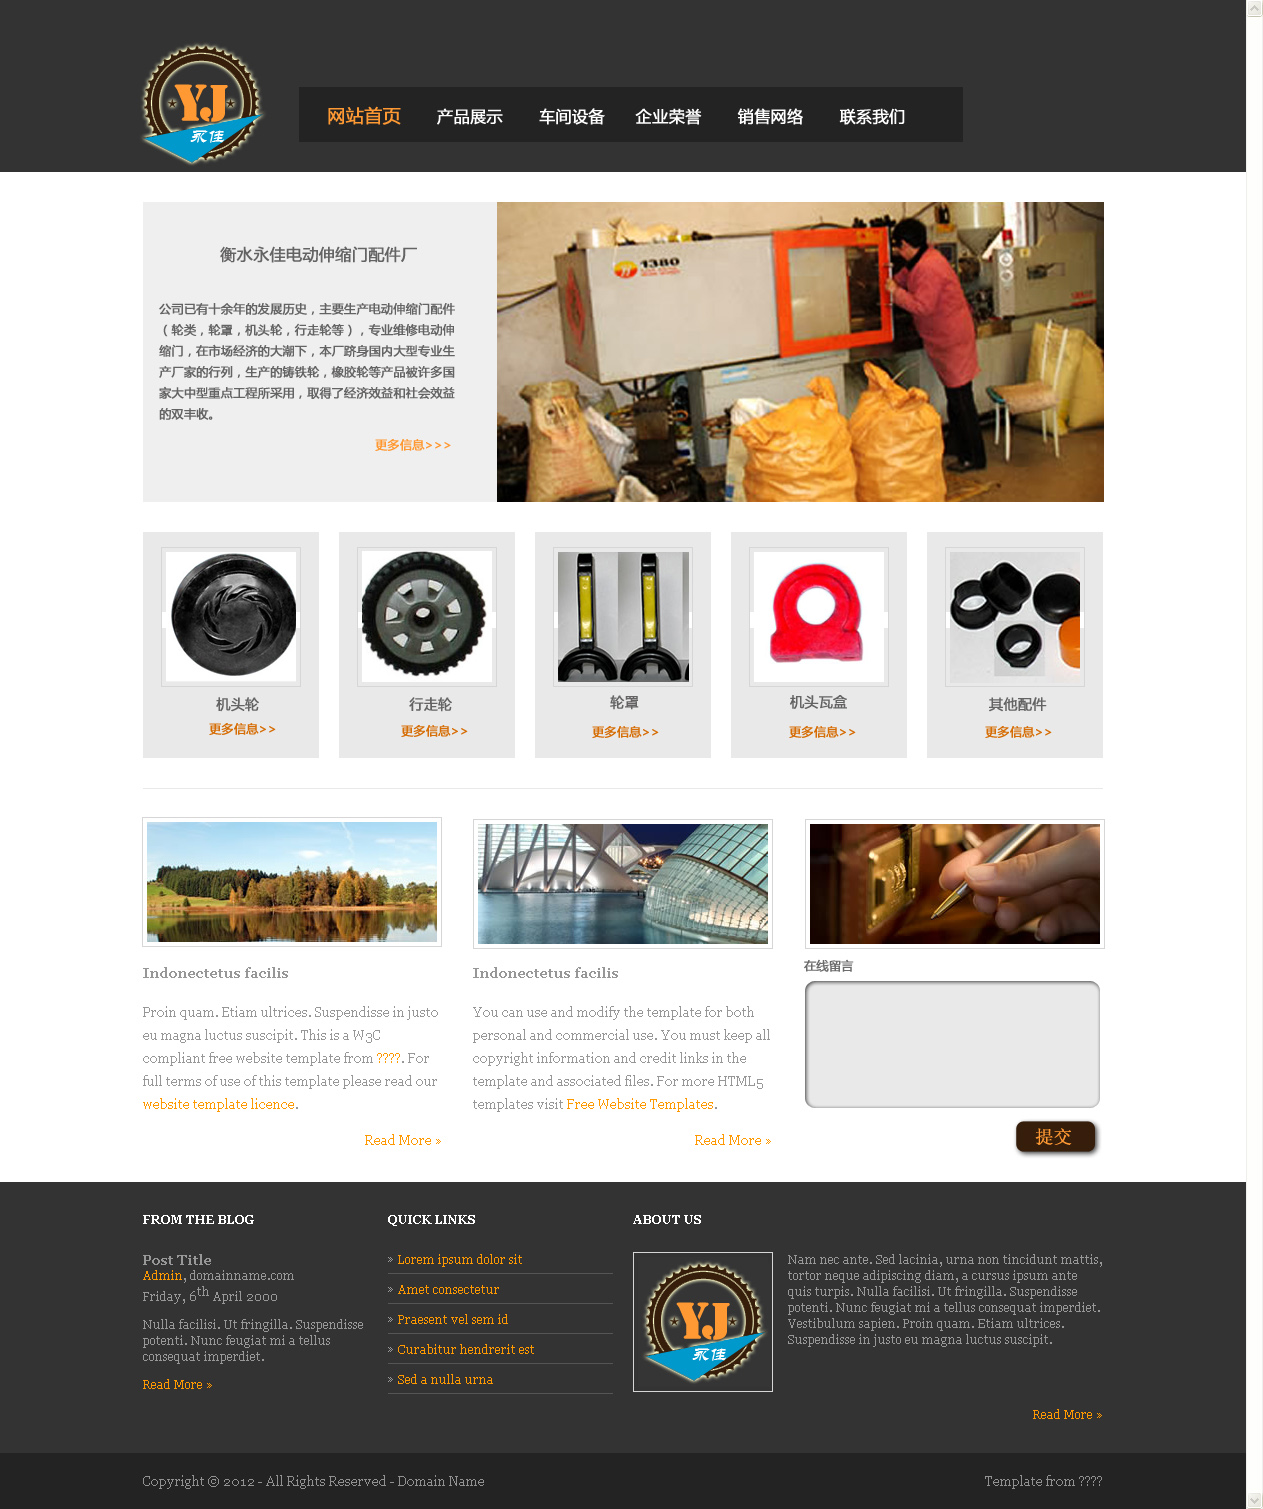
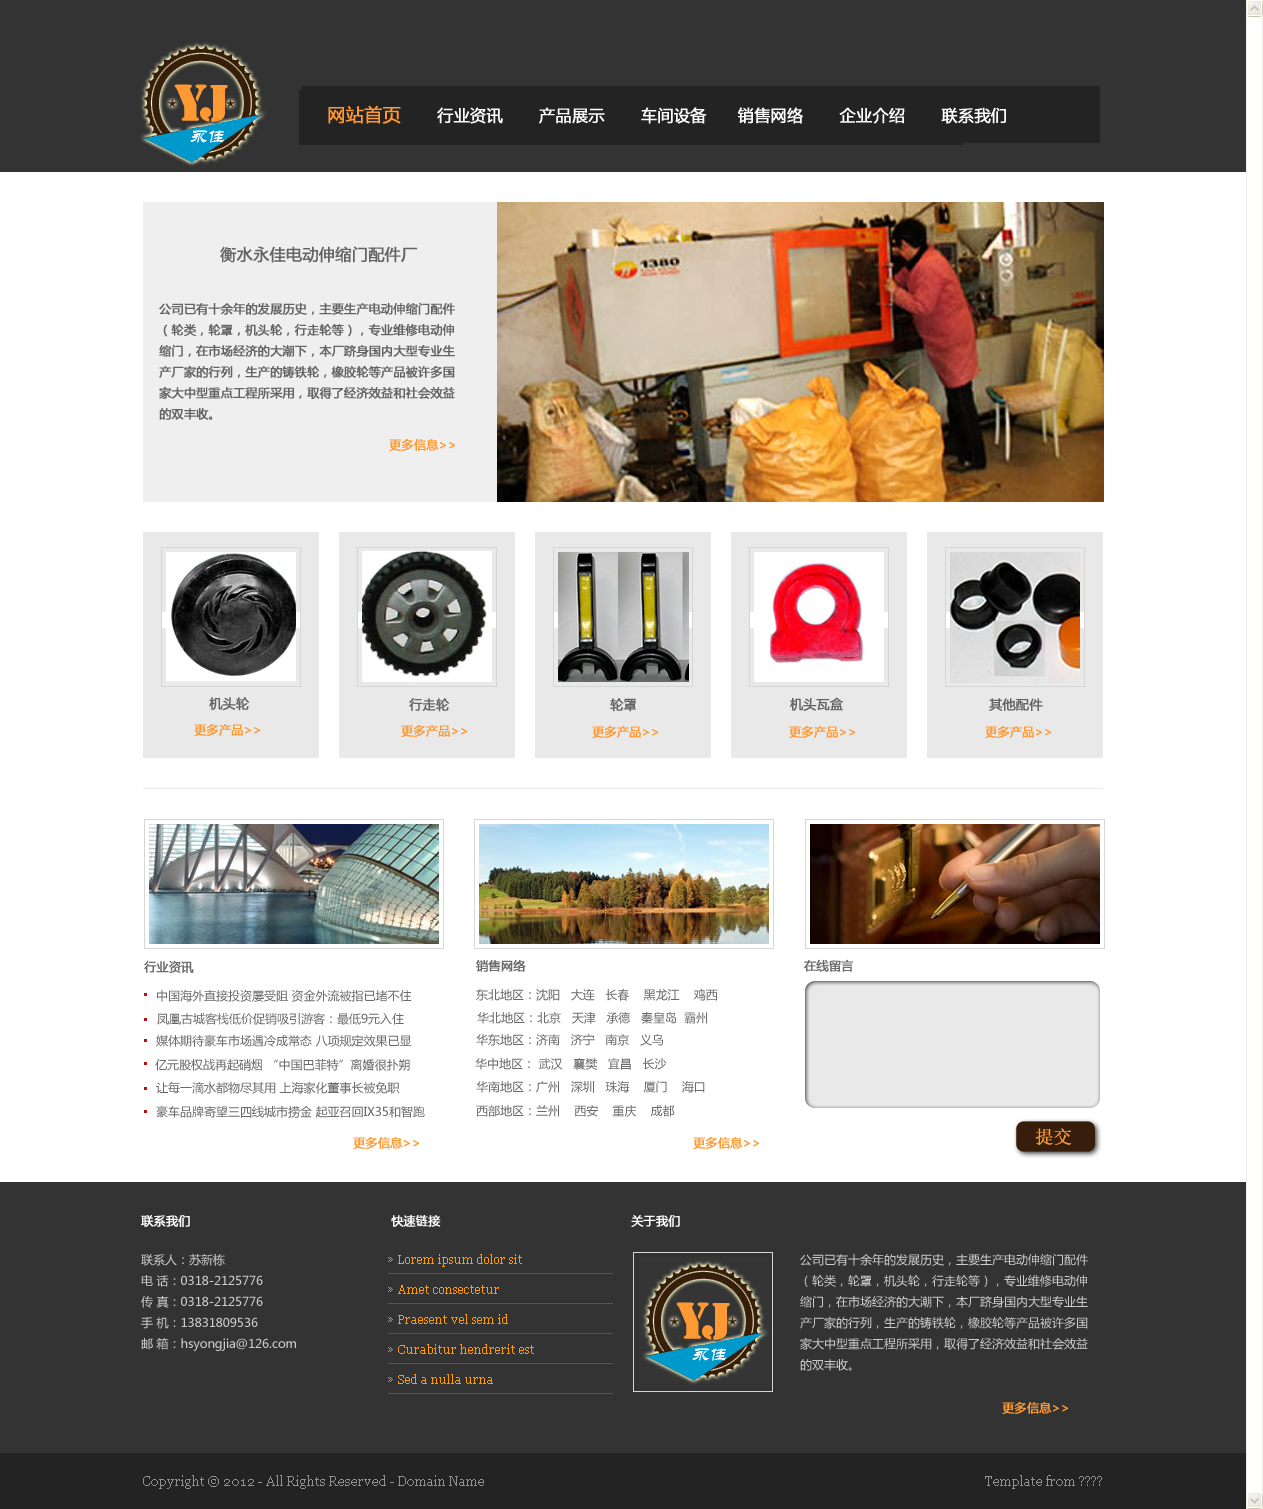
update

diff --git a/yjssm/home.html b/yjssm/home.html
@@ -1,70 +1,63 @@
-<html lang="en">
-  <head>
-    <meta charset="utf-8">
-    <title>Bootstrap, from Twitter</title>
-    <meta name="viewport" content="width=device-width, initial-scale=1.0">
-    <meta name="description" content="">
-    <meta name="author" content="">
+<!DOCTYPE html PUBLIC "-//W3C//DTD XHTML 1.0 Strict//EN" "http://www.w3.org/TR/xhtml1/DTD/xhtml1-strict.dtd">
+<html xmlns="http://www.w3.org/1999/xhtml">
+	<head>
+		<meta charset="utf-8">
+		<title>Bootstrap, from Twitter</title>
+		<meta name="viewport" content="width=device-width, initial-scale=1.0">
+		<meta name="description" content="">
+		<meta name="author" content="">
 
-    <link href="media/css/bootstrap.css" rel="stylesheet">
-	<link href="media/css/bootstrap-responsive.css" rel="stylesheet">
-	<script src="media/js/jquery-1.9.1.min.js"></script>
-	<script src="media/js/bootstrap.min.js"></script>
-  </head>
-
-
-  <body>
-
-		  <div class="container-fluid" style="background-color:#333">
-				  <div class="row-fluid" style="margin-buttom:0px">
-						  <img style="margin:30px 40px 10px 100px;width:163px;height:144px;float:left" src="media/img/logo.png">	
-						  <div  style="font-size:20px;margin-top:120px">
-												  <ul class="inline">
-														  <li class="active"><a href="#">首页</a></li>
-														  <li><a href="#">产品展示</a></li>
-														  <li><a href="#">车间设备</a></li>
-														  <li><a href="#">企业荣誉</a></li>
-														  <li><a href="#">销售网络</a></li>
-														  <li><a href="#">联系我们</a></li>
-												  </ul>
-
-						  </div>
-				  </div>	
-		  </div>
+		<link href="media/css/bootstrap.css" rel="stylesheet">
+		<link href="media/css/bootstrap-responsive.css" rel="stylesheet">
+		<script src="media/js/jquery-1.9.1.min.js"></script>
+		<script src="media/js/bootstrap.min.js"></script>
+	</head>
 
 
+	<body>
+		<div class="container-fluid" style="background-color:#333">
+			<div class="row-fluid" style="margin-buttom:0px">
+				<img style="margin:0px 40px 10px 100px;width:193px;height:174px;float:left" src="media/img/logo.png">	
+				<div  style="font-size:20px;margin:100px 318px 10px 300px;padding-top:10px;height:40px;background-color:black;border-radius: 13px">
+					<ul class="inline" style="margin-top:5px;font-color:white">
+						<li class="active"><a href="#">首页</a></li>
+						<li><a href="#">产品展示</a></li>
+						<li><a href="#">车间设备</a></li>
+						<li><a href="#">企业荣誉</a></li>
+						<li><a href="#">销售网络</a></li>
+						<li><a href="#">联系我们</a></li>
+					</ul>
+				</div>
+			</div>	
+		</div>
 
 
-		  <div class="container-fluid">
-				  <div class="row-fluid">
-						  <div class="span4 offset1 hero-unit">
-								  <h4>衡水永佳电动伸缩门配件厂</h4>
-								  <p style="margin:">公司已有十余年的发展历史，主要生产电动伸缩门配件（轮类，轮罩，机头轮，行走轮等），专业维修电动伸缩门，在市场经济的大潮下，本厂跻身国内大型专业生产厂家的行列，生产的铸铁轮，橡胶轮等产品被许多国家大中型重点工程所采用，取得了经济效益和社会效益的双丰收。 </p>
+		<div style="background-color:#eee;border-radius:13px;margin:10px 106px 10px 106px;height:400px">
+				<div class="span3">
+					<h4>衡水永佳电动伸缩门配件厂</h4>
+					<p style="margin:">公司已有十余年的发展历史，主要生产电动伸缩门配件（轮类，轮罩，机头轮，行走轮等），专业维修电动伸缩门，在市场经济的大潮下，本厂跻身国内大型专业生产厂家的行列，生产的铸铁轮，橡胶轮等产品被许多国家大中型重点工程所采用，取得了经济效益和社会效益的双丰收。 </p>
 
-						  </div>
-						  <div class="span6 hero-unit">
-								  <!--
-								  <div id="myCarousel" class="carousel slide">
-										  <ol class="carousel-indicators">
-												  <li data-target="#myCarousel" data-slide-to="0" class="active"></li>
-												  <li data-target="#myCarousel" data-slide-to="1"></li>
-												  <li data-target="#myCarousel" data-slide-to="2"></li>
-										  </ol>
-										  <div class="carousel-inner">
-												  <div class="active item"><img src="http://www.bootcss.com/assets/img/bootstrap-mdo-sfmoma-01.jpg" alt=""></div>
-												  <div class="item"><img src="http://www.bootcss.com/assets/img/bootstrap-mdo-sfmoma-02.jpg" alt=""></div>
-												  <div class="item"><img src="http://www.bootcss.com/assets/img/bootstrap-mdo-sfmoma-03.jpg" alt=""></div>
-										  </div>
-										  <a class="carousel-control left" href="#myCarousel" data-slide="prev">&lsaquo;</a>
-										  <a class="carousel-control right" href="#myCarousel" data-slide="next">&rsaquo;</a>
-								  </div>
-								  <script>
-										  $('.carousel').carousel();
-								  </script>
-								  -->
-						  </div>
-				  </div>	
-		  </div>
+				</div>
+				<!--
+				<div id="myCarousel" class="carousel slide">
+					<ol class="carousel-indicators">
+						<li data-target="#myCarousel" data-slide-to="0" class="active"></li>
+						<li data-target="#myCarousel" data-slide-to="1"></li>
+						<li data-target="#myCarousel" data-slide-to="2"></li>
+					</ol>
+					<div class="carousel-inner">
+						<div class="active item"><img src="http://www.bootcss.com/assets/img/bootstrap-mdo-sfmoma-01.jpg" alt=""></div>
+						<div class="item"><img src="http://www.bootcss.com/assets/img/bootstrap-mdo-sfmoma-02.jpg" alt=""></div>
+						<div class="item"><img src="http://www.bootcss.com/assets/img/bootstrap-mdo-sfmoma-03.jpg" alt=""></div>
+					</div>
+					<a class="carousel-control left" href="#myCarousel" data-slide="prev">&lsaquo;</a>
+					<a class="carousel-control right" href="#myCarousel" data-slide="next">&rsaquo;</a>
+				</div>
+				<script>
+					$('.carousel').carousel();
+				</script>
+				-->
+		</div>
 
 
 
@@ -73,65 +66,63 @@
 
 
 
+		<div class="row-fluid">
+			<ul class="thumbnails">
+				<li class="span2 offset1">
+				<div class="thumbnail" style="background-color: #eee;">
+					<img style="width: 140px; height: 140px;" src="media/img/1.png">
+					<div class="caption">
+						<h4>机头轮</h4>
+						<p>更多信息</p>
+					</div>
+				</div>
+				</li>
+				<li class="span2">
+				<div class="thumbnail" style="background-color: #eee;">
+					<img style="width: 140px; height: 140px;" src="media/img/1.png">
+					<div class="caption">
+						<h4>机头轮</h4>
+						<p>更多信息</p>
+					</div>
+				</div>
+				</li>
+				<li class="span2">
+				<div class="thumbnail" style="background-color: #eee;">
+					<img style="width: 140px; height: 140px;" src="media/img/1.png">
+					<div class="caption">
+						<h4>机头轮</h4>
+						<p>更多信息</p>
+					</div>
+				</div>
+				</li>
+				<li class="span2">
+				<div class="thumbnail" style="background-color: #eee;">
+					<img style="width: 140px; height: 140px;" src="media/img/1.png">
+					<div class="caption">
+						<h4>机头轮</h4>
+						<p>更多信息</p>
+					</div>
+				</div>
+				</li>
+				<li class="span2">
+				<div class="thumbnail" style="background-color: #eee;">
+					<img style="width: 140px; height: 140px;" src="media/img/1.png">
+					<div class="caption">
+						<h4>机头轮</h4>
+						<p>更多信息</p>
+					</div>
+				</div>
+				</li>
 
 
-		  <div class="row-fluid">
-				  <ul class="thumbnails">
-						  <li class="span2 offset1">
-						  <div class="thumbnail" style="background-color: #eee;">
-								  <img style="width: 140px; height: 140px;" src="media/img/1.png">
-								  <div class="caption">
-										  <h4>机头轮</h4>
-										  <p>更多信息</p>
-								  </div>
-						  </div>
-						  </li>
-						  <li class="span2">
-						  <div class="thumbnail" style="background-color: #eee;">
-								  <img style="width: 140px; height: 140px;" src="media/img/1.png">
-								  <div class="caption">
-										  <h4>机头轮</h4>
-										  <p>更多信息</p>
-								  </div>
-						  </div>
-						  </li>
-						  <li class="span2">
-						  <div class="thumbnail" style="background-color: #eee;">
-								  <img style="width: 140px; height: 140px;" src="media/img/1.png">
-								  <div class="caption">
-										  <h4>机头轮</h4>
-										  <p>更多信息</p>
-								  </div>
-						  </div>
-						  </li>
-						  <li class="span2">
-						  <div class="thumbnail" style="background-color: #eee;">
-								  <img style="width: 140px; height: 140px;" src="media/img/1.png">
-								  <div class="caption">
-										  <h4>机头轮</h4>
-										  <p>更多信息</p>
-								  </div>
-						  </div>
-						  </li>
-						  <li class="span2">
-						  <div class="thumbnail" style="background-color: #eee;">
-								  <img style="width: 140px; height: 140px;" src="media/img/1.png">
-								  <div class="caption">
-										  <h4>机头轮</h4>
-										  <p>更多信息</p>
-								  </div>
-						  </div>
-						  </li>
-
-
-				  </ul>
-		  </div>
+			</ul>
+		</div>
 
 
 
 
 
 
-  </body>
+	</body>
 </html>
 
